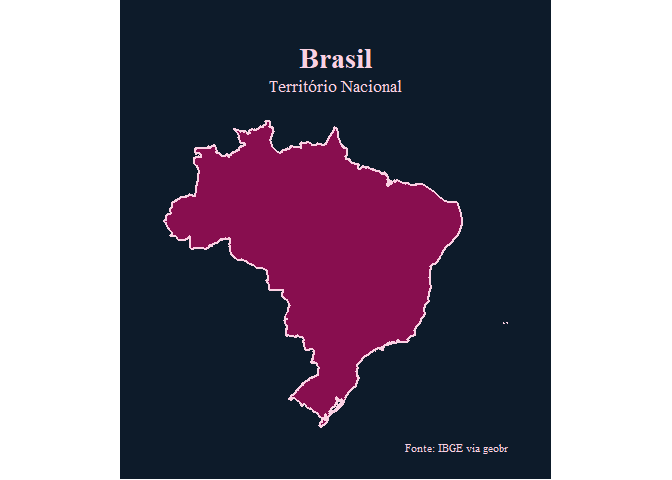
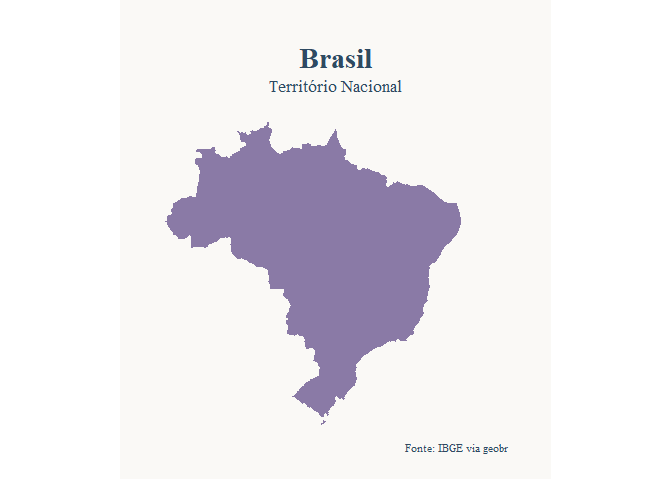
Atualizações

diff --git a/README.md b/README.md
@@ -80,8 +80,8 @@ micro_regiao <- read_micro_region(showProgress = FALSE, year = 2022)
 
 map_country <- ggplot(brasil) +
   geom_sf(
-    fill = "#880E4F",
-    color = "#FAD1E3",
+    fill = "#8A7AA6",
+    color = "#FAF9F6",
     linewidth = 0.8
   ) +
   labs(
@@ -91,23 +91,23 @@ map_country <- ggplot(brasil) +
   ) +
   theme_void(base_family = "serif") +
   theme(
-    plot.background  = element_rect(fill = "#0d1b2a", color = NA),
-    panel.background = element_rect(fill = "#0d1b2a", color = NA),
+    plot.background  = element_rect(fill = "#FAF9F6", color = NA),
+    panel.background = element_rect(fill = "#FAF9F6", color = NA),
     plot.title       = element_text(
-      color = "#FAD1E3",
+      color = "#2E4A62",
       size = 22,
       face = "bold",
       hjust = 0.5,
       margin = margin(t = 16, b = 4)
     ),
     plot.subtitle    = element_text(
-      color = "#FAD1E3",
+      color = "#2E4A62",
       size = 13,
       hjust = 0.5,
       margin = margin(b = 8)
     ),
     plot.caption     = element_text(
-      color = "#FAD1E3",
+      color = "#2E4A62",
       size = 8,
       hjust = 1,
       margin = margin(b = 10, r = 12)
@@ -410,10 +410,10 @@ estados <- c("RS","SC","PR","SP","MS",
              "RJ","ES","GO","MT","MG","TO","DF")
 municipios |>
   filter(abbrev_state %in% estados,
-         !(name_muni %in% lista_muni_mg),
-         !(name_muni %in% lista_muni_es),
-         !(name_muni %in% lista_muni_to),
-         !(name_muni %in% lista_muni_mt)
+         !(name_muni %in% lista_muni_mg & abbrev_state == "MG") ,
+         !(name_muni %in% lista_muni_es & abbrev_state == "ES") ,
+         !(name_muni %in% lista_muni_to & abbrev_state == "TO") ,
+         !(name_muni %in% lista_muni_mt & abbrev_state == "MT") 
          ) |> 
   ggplot() +
   geom_sf(
@@ -424,3 +424,115 @@ municipios |>
 ```
 
 ![](README_files/figure-gfm/unnamed-chunk-13-1.png)<!-- -->
+
+``` r
+# Estados que fazem parte do recorte
+ufs_centro_sul <- c("RS", "SC", "PR", "SP", "MS",
+                    "RJ", "ES", "GO", "MT", "MG", "TO", "DF")
+```
+
+``` r
+# Selecionar os municípios que pertencem ao recorte
+centro_sul <- municipios |>
+  filter(
+    abbrev_state %in% c("RS", "SC", "PR", "SP", "MS",
+                        "RJ", "ES", "GO", "MT", "MG", "TO", "DF"),
+    !(name_muni %in% lista_muni_mg & abbrev_state == "MG"),
+    !(name_muni %in% lista_muni_es & abbrev_state == "ES"),
+    !(name_muni %in% lista_muni_to & abbrev_state == "TO"),
+    !(name_muni %in% lista_muni_mt & abbrev_state == "MT")
+  ) |>
+  st_make_valid() |>
+  summarise(
+    geometry = st_union(geometry)
+  )
+```
+
+``` r
+# Estados que fazem parte do recorte
+ufs_centro_sul <- c("RS", "SC", "PR", "SP", "MS",
+                   "RJ", "ES", "GO", "MT", "MG", "TO", "DF")
+
+
+# Selecionar os municípios e dissolver em um único polígono
+centro_sul <- municipios |>
+  filter(
+    abbrev_state %in% ufs_centro_sul,
+    !(name_muni %in% lista_muni_mg & abbrev_state == "MG"),
+    !(name_muni %in% lista_muni_es & abbrev_state == "ES"),
+    !(name_muni %in% lista_muni_to & abbrev_state == "TO"),
+    !(name_muni %in% lista_muni_mt & abbrev_state == "MT")
+  ) |>
+  st_make_valid() |>
+  st_union() |>
+  st_as_sf() |>
+  mutate(area = "Centro-Sul")
+```
+
+``` r
+ggplot() +
+
+  # Brasil inteiro
+  geom_sf(
+    data = brasil,
+    aes(fill = "Brasil"),
+    color = "#B8B8B8",
+    linewidth = 0.4
+  ) +
+
+  # Seu recorte
+  geom_sf(
+    data = centro_sul,
+    aes(fill = "Centro-Sul"),
+    color = "#173F4A",
+    linewidth = 0.7
+  ) +
+
+  scale_fill_manual(
+    name = NULL,
+    values = c(
+      "Brasil" = "#E5E5E5",
+      "Centro-Sul" = "#3A7D8C"
+    )
+  ) +
+
+  labs(
+    title = "Região Geoeconômica Centro-Sul do Brasil",
+    subtitle = "Área de monitoramento",
+    caption = "Fonte: IBGE (via geobr)"
+  ) +
+
+  theme_void() +
+
+  theme(
+    plot.title = element_text(
+      family = "serif",
+      face = "bold",
+      size = 20,
+      color = "#173F4A",
+      hjust = 0.5
+    ),
+
+    plot.subtitle = element_text(
+      family = "serif",
+      size = 13,
+      color = "#555555",
+      hjust = 0.5
+    ),
+
+    legend.position = "right",
+
+    legend.text = element_text(
+      family = "serif",
+      size = 11
+    ),
+
+    plot.caption = element_text(
+      family = "serif",
+      size = 9,
+      hjust = 1
+    )
+  )
+```
+
+![](README_files/figure-gfm/unnamed-chunk-17-1.png)<!-- -->
